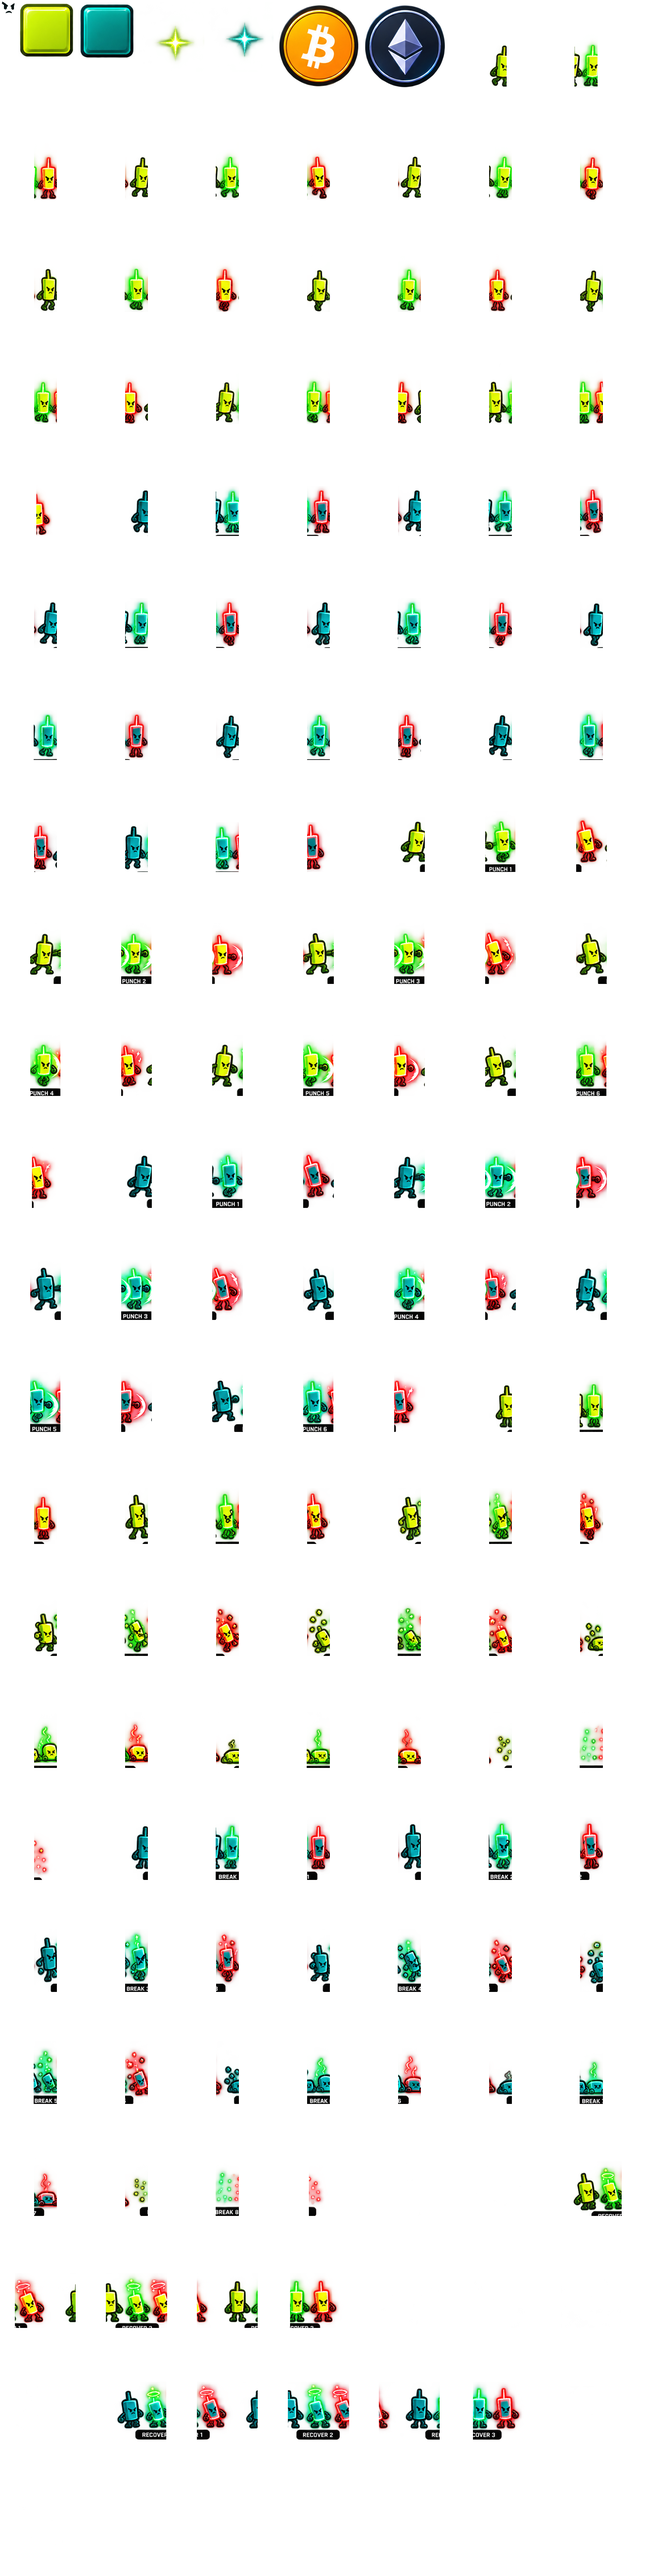
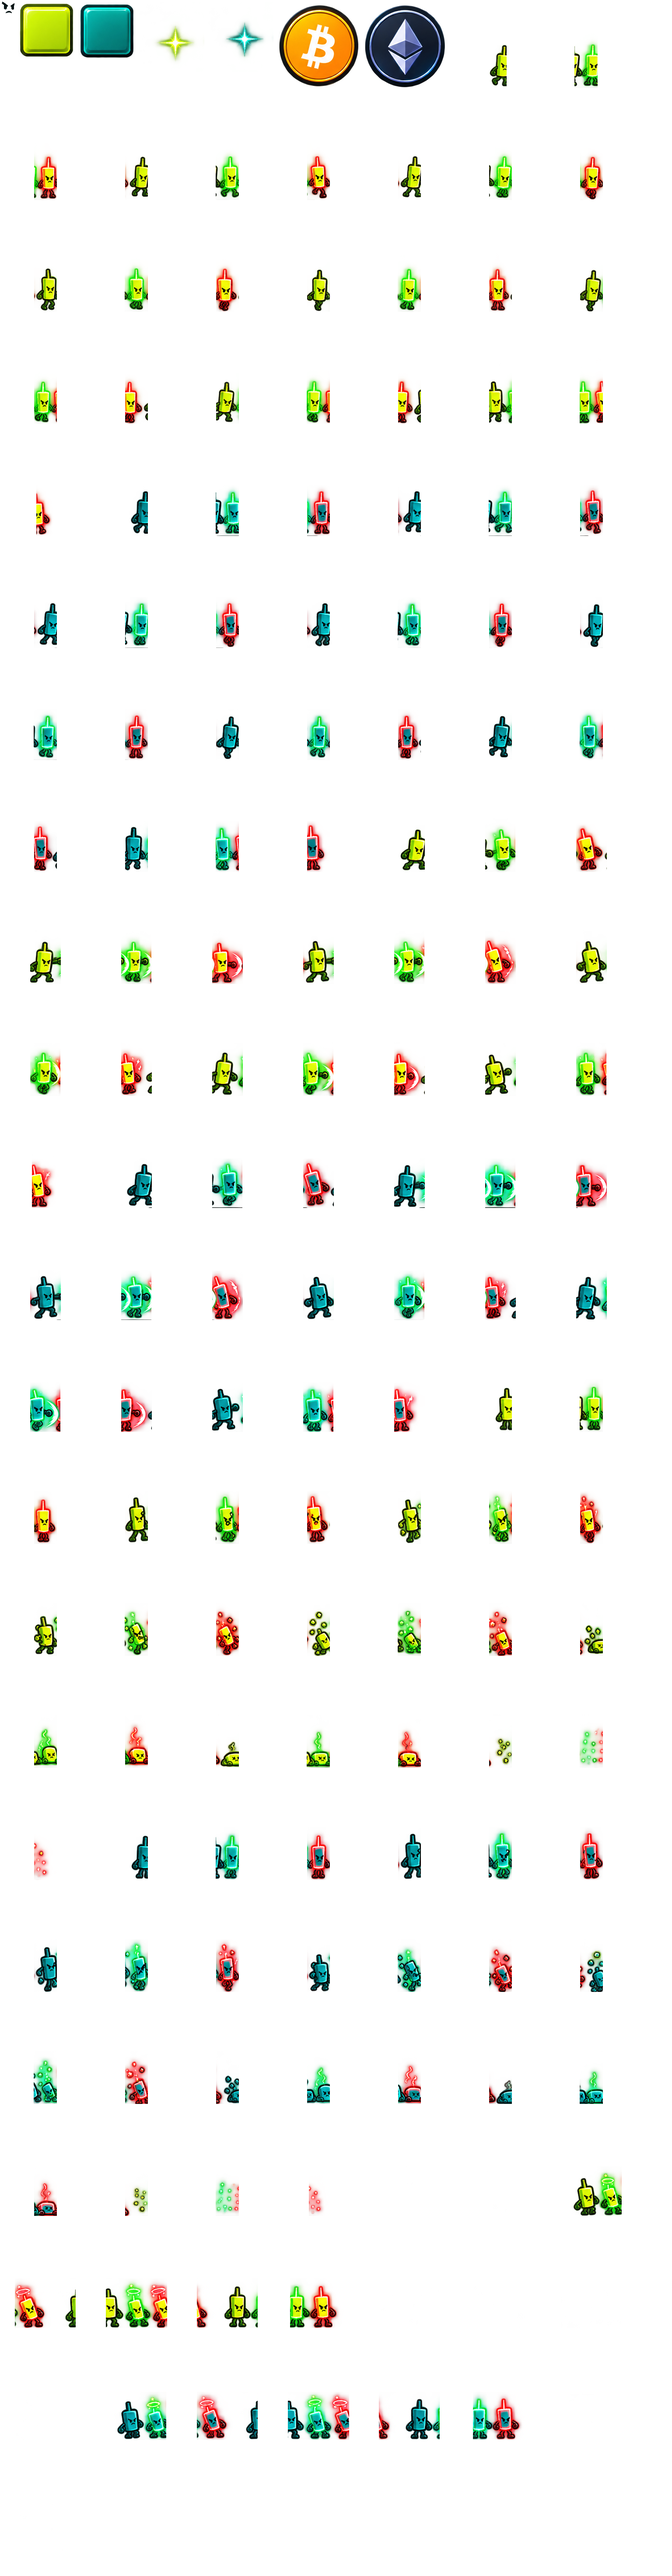
Adiciona arcade de batalhas com candles reais
Implementa o fluxo completo de Candle Battles Arcade:
- adiciona Worker, persistência atômica de rounds e endpoint paginado;
- valida OHLCV da Binance e define vencedor por variação de preço;
- preserva a fórmula de força apenas como desempate;
- adiciona replay e reconexão baseados em rounds imutáveis;
- substitui acessórios desenhados por sprites reais de combate;
- trata empates, recuperação e variantes de animação;
- atualiza preparação de assets, documentação e verificações visuais.

diff --git a/CriptoVersus/wwwroot/js/candle-battles/renderer.ts b/CriptoVersus/wwwroot/js/candle-battles/renderer.ts
@@ -50,6 +50,7 @@ export class CandleRenderer {
     private frozen = false;
     private phase: Phase = 'FORMING_CANDLE';
     private win = true;
+    private draw = false;
     private outline = OUTLINE.neutral;
     private animation: FighterAnimation = 'idle';
     private combat: CombatMotion = { attack: 0, block: 0, dodge: 0, hit: 0, counter: 0, taunt: 0 };
@@ -79,11 +80,13 @@ export class CandleRenderer {
         this.playAnimation(true);
     }
 
-    setPose(phase: Phase, winner: boolean): void {
+    setPose(phase: Phase, winner: boolean, draw = false): void {
         const changed = this.phase !== phase;
         this.phase = phase;
         this.win = winner;
-        const next = fighterAnimationForPhase(phase);
+        this.draw = draw;
+        let next = fighterAnimationForPhase(phase);
+        if (!draw && winner && ['BLOCK_FALLING', 'BLOCK_LOCKING', 'ROUND_COMPLETE'].includes(phase)) next = 'recover';
         if (changed || next !== this.animation) {
             this.animation = next;
             this.playAnimation(true);
@@ -141,7 +144,7 @@ export class CandleRenderer {
         const breakFrame = Math.min(7, Math.floor(progress * 8));
         const recovery = this.phase === 'SPAWNING' ? (Math.min(2, Math.floor(progress * 3)) + 1) / 3 : 1;
         const alpha = (this.phase === 'DESTROYING' && !this.win) ? 1 - breakFrame / 7 :
-            (!this.win && ['VICTORY', 'BLOCK_FALLING', 'BLOCK_LOCKING', 'ROUND_COMPLETE'].includes(this.phase)) ? 0 : recovery;
+            (!this.draw && !this.win && ['VICTORY', 'BLOCK_FALLING', 'BLOCK_LOCKING', 'ROUND_COMPLETE'].includes(this.phase)) ? 0 : recovery;
         this.body.setAlpha(alpha);
         this.sprite.setAlpha(alpha);
         this.aura.setAlpha(alpha);

diff --git a/CriptoVersus/wwwroot/js/dist/candle-battles/renderer.js b/CriptoVersus/wwwroot/js/dist/candle-battles/renderer.js
@@ -37,6 +37,7 @@ export class CandleRenderer {
         this.frozen = false;
         this.phase = 'FORMING_CANDLE';
         this.win = true;
+        this.draw = false;
         this.outline = OUTLINE.neutral;
         this.animation = 'idle';
         this.combat = { attack: 0, block: 0, dodge: 0, hit: 0, counter: 0, taunt: 0 };
@@ -64,11 +65,14 @@ export class CandleRenderer {
             this.visibleGeometry = { ...this.target };
         this.playAnimation(true);
     }
-    setPose(phase, winner) {
+    setPose(phase, winner, draw = false) {
         const changed = this.phase !== phase;
         this.phase = phase;
         this.win = winner;
-        const next = fighterAnimationForPhase(phase);
+        this.draw = draw;
+        let next = fighterAnimationForPhase(phase);
+        if (!draw && winner && ['BLOCK_FALLING', 'BLOCK_LOCKING', 'ROUND_COMPLETE'].includes(phase))
+            next = 'recover';
         if (changed || next !== this.animation) {
             this.animation = next;
             this.playAnimation(true);
@@ -127,7 +131,7 @@ export class CandleRenderer {
         const breakFrame = Math.min(7, Math.floor(progress * 8));
         const recovery = this.phase === 'SPAWNING' ? (Math.min(2, Math.floor(progress * 3)) + 1) / 3 : 1;
         const alpha = (this.phase === 'DESTROYING' && !this.win) ? 1 - breakFrame / 7 :
-            (!this.win && ['VICTORY', 'BLOCK_FALLING', 'BLOCK_LOCKING', 'ROUND_COMPLETE'].includes(this.phase)) ? 0 : recovery;
+            (!this.draw && !this.win && ['VICTORY', 'BLOCK_FALLING', 'BLOCK_LOCKING', 'ROUND_COMPLETE'].includes(this.phase)) ? 0 : recovery;
         this.body.setAlpha(alpha);
         this.sprite.setAlpha(alpha);
         this.aura.setAlpha(alpha);

diff --git a/CriptoVersus/wwwroot/js/candle-battles/game.ts b/CriptoVersus/wwwroot/js/candle-battles/game.ts
@@ -284,7 +284,7 @@ export class GameEngine {
     }
     private enter(phase:Phase): void {
         const r=this.active; if(!r) return;
-        this.left?.setPose(phase,r.winner==='left'); this.right?.setPose(phase,r.winner==='right');
+        this.left?.setPose(phase,r.winner==='left',r.winner==='draw'); this.right?.setPose(phase,r.winner==='right',r.winner==='draw');
         if(phase==='SPAWNING') this.audio.play('candle_spawn');
         if(phase==='APPROACHING') this.audio.play('dash');
         if(phase==='COLLISION') { this.audio.play('punch_impact'); this.burst(640,330,r.winner==='right'?'right':'left'); if(!this.reduced)this.scene?.cameras.main.shake(100,.002); }

diff --git a/CriptoVersus/wwwroot/js/dist/candle-battles/game.js b/CriptoVersus/wwwroot/js/dist/candle-battles/game.js
@@ -419,8 +419,8 @@ export class GameEngine {
         const r = this.active;
         if (!r)
             return;
-        this.left?.setPose(phase, r.winner === 'left');
-        this.right?.setPose(phase, r.winner === 'right');
+        this.left?.setPose(phase, r.winner === 'left', r.winner === 'draw');
+        this.right?.setPose(phase, r.winner === 'right', r.winner === 'draw');
         if (phase === 'SPAWNING')
             this.audio.play('candle_spawn');
         if (phase === 'APPROACHING')

diff --git a/CriptoVersus/tools/candle-battles/prepare-assets.py b/CriptoVersus/tools/candle-battles/prepare-assets.py
@@ -59,10 +59,10 @@ extended_bytes = z.read(prefix + "assets/sprites/characters/source/candle_fighte
 extended = Image.open(io.BytesIO(extended_bytes)).convert("RGBA")
 action_rows = {
     # The lower edge of every tuple stops before the baked action label.
-    "run": ((0, 160, 8), (650, 760, 8)),
-    "punch": ((195, 331, 6), (800, 934, 6)),
-    "break": ((350, 475, 8), (950, 1091, 8)),
-    "recover": ((500, 622, 3), (1105, 1233, 3)),
+    "run": ((0, 164, 8), (646, 762, 8)),
+    "punch": ((195, 317, 6), (805, 918, 6)),
+    "break": ((350, 472, 8), (951, 1071, 8)),
+    "recover": ((500, 613, 3), (1104, 1214, 3)),
 }
 directions = ("neutral", "up", "down")
 

diff --git a/docs/candle-battles.md b/docs/candle-battles.md
@@ -52,7 +52,7 @@ Fonte TypeScript: CriptoVersus/wwwroot/js/candle-battles. Phaser 3.90.0 é empac
 
 CandleRenderer projeta Open/Close e High/Low em um domínio percentual compartilhado entre os ativos. O corpo é um retângulo desenhado por Graphics e o doji tem altura financeira zero. Nenhuma imagem inteira é escalada verticalmente. Open, Close, High e Low visuais são interpolados por 240 ms e chegam exatamente às coordenadas alvo. Os DTOs recebidos não são alterados. Durante todo o round, um diretor determinístico de combate deriva a direção de `close - open`: candles verdes recebem pressão ofensiva, candles vermelhos priorizam defesa/recuo e reações, e dojis permanecem equilibrados; a força existente só desempata candles comparáveis. O tamanho OHLC permanece exclusivamente financeiro e não concede vantagem ofensiva.
 
-O rosto foi extraído da prancha aprovada. Braços, punhos e pernas foram redesenhados e articulados programaticamente a partir das poses de referência. Suas dimensões são fixas. Para corpos pequenos e dojis, o rosto aparece em um pequeno distintivo acima do corpo: esse distintivo é decorativo, não parte da geometria financeira. Bounce e Jitter deslocam apenas acessórios; Pulse muda a aura. Os contornos de alta, baixa e neutro são independentes da cor da equipe.
+O rosto, braços, punhos e pernas das ações disponíveis são sprites reais recortados da prancha aprovada; não são redesenhados pelo renderer. O atlas registra variantes neutra, compra e venda para as duas equipes. As sequências usadas são RUN (8), PUNCH (6), BREAK (8) e RECOVER (3), com o pé normalizado em uma tela transparente comum, sem deformar a proporção original. Idle, lunge, victory e defeat usam a alternativa mais próxima disponível da mesma arte. O corpo e os pavios continuam sendo a geometria OHLC exata, separados da camada ilustrada. Os contornos de alta, baixa e neutro são independentes da cor da equipe.
 
 As poses incluem Idle/Bounce, corrida com oito posições, ataque com seis posições, destruição em oito etapas com fragmentos, vitória e recuperação em três etapas. As pranchas completas e a imagem conceitual não são usadas como frames financeiros nem como uma arena pronta.
 
@@ -66,7 +66,7 @@ Preparação reproduzível:
 
     python CriptoVersus/tools/candle-battles/prepare-assets.py <arquivo-zip-fornecido>
 
-O script preserva a prancha base em tools/candle-battles/source (fora do wwwroot), extrai a tinta do rosto, recorta blocos, impactos e ícones e gera modular.png/modular.json/manifest.json. O manifesto registra o hash da fonte e os recursos utilizados. As duas músicas e os 16 efeitos fornecidos estão em wwwroot/games/candle-battles/assets/audio.
+O script preserva as pranchas base e extended em tools/candle-battles/source (fora do wwwroot), recorta os estados reais de ação, remove os rótulos incorporados, preserva alpha e gera modular.png/modular.json/manifest.json. O manifesto registra os hashes das fontes, as poses, as direções e os recursos utilizados. As músicas e os efeitos fornecidos estão em wwwroot/games/candle-battles/assets/audio.
 
 O áudio só é desbloqueado por interação local do usuário. Os botões são tratados no navegador para preservar o gesto exigido por áudio e fullscreen. Há controles de volume geral, música, efeitos e mute, com preferência local, fade da trilha, máximo de seis efeitos simultâneos e intervalo mínimo de 900 ms para data tick. ResizeObserver, listeners, áudio, texturas e o jogo são liberados no descarte.
 
@@ -80,7 +80,7 @@ O áudio só é desbloqueado por interação local do usuário. Os botões são 
     dotnet test CriptoVersus.Worker.Tests/CriptoVersus.Worker.Tests.csproj --filter "FullyQualifiedName~CandleBattle|FullyQualifiedName~Volume"
     dotnet build EthicAI.sln
 
-Os testes visuais usam Edge headless e servidor estático local, sem API ou banco de produção. As capturas de referência estão em wwwroot/js/candle-battles/tests/visual.spec.mjs-snapshots; o diretório tests é excluído da publicação Web. A galeria cobre corpos pequeno/médio/grande, doji, pavios extremos, contornos das duas equipes, inversão durante interpolação, tamanho fixo dos acessórios, reconexão, replay, blocos quadrados, resize, dispose, áudio real e fullscreen por gesto nativo.
+Os testes visuais usam Edge headless e servidor estático local, sem API ou banco de produção. As capturas de referência estão em wwwroot/js/candle-battles/tests/visual.spec.mjs-snapshots; o diretório tests é excluído da publicação Web. A galeria cobre corpos pequeno/médio/grande, doji, pavios extremos, contornos das duas equipes, sprites de combate, inversão durante interpolação, reconexão, replay, blocos quadrados, resize, dispose, áudio real e fullscreen por gesto nativo.
 
 Neste workspace, arquivos de saída estavam bloqueados pela aplicação aberta e o projeto legado incluía obj antigo no glob. A validação da solução usa saída isolada e exclui esses objetos sem removê-los:
 

diff --git a/ARCHITECTURE.md b/ARCHITECTURE.md
@@ -546,7 +546,7 @@ The Worker appends the candle-battles-arcade stage after its existing stages. Ca
 
 Migration 20261015000000_AddCandleBattlesArcade adds candle_battles_round and candle_battles_state. Worker is the sole writer. A (MatchId, OpenTimeUtc) primary key plus per-match transaction advisory lock makes round insertion and durable cursor advancement atomic. API and Worker retain their existing migration-startup ownership. GET /api/matches/{matchId}/candle-battles exposes paginated immutable rounds, forming OHLCV, provisional strength, arcade score and failure/staleness status; for rounds written with a pre-return rule version, the API normalizes the projected winner from stored OHLC without mutating the immutable row. Replay and reconnection reconstruct points and territory only from these rounds.
 
-The TypeScript renderer draws financial body/wicks and keeps fixed-size face/limb accessories separate from decorative motion. A snapshot for an active battle is immutable while the independent heartbeat receives the next candle. Audio, resize and browser listeners are instance-owned and disposed. The build emits versioned local Phaser and native ESM modules; generated JS is not hand-edited. User-supplied source art stays outside wwwroot, and visual-test fixtures are excluded from publication. See docs/candle-battles.md for formula parameters, schema ownership, asset preparation and verification limits.
+The TypeScript renderer draws financial body/wicks and keeps the OHLC geometry separate from real, alpha-trimmed fighter action sprites. The atlas registers team and OHLC-direction variants for RUN, PUNCH, BREAK and RECOVER; uniform sprite scaling preserves artwork proportions while candle body size remains financial. A snapshot for an active battle is immutable while the independent heartbeat receives the next candle. Audio, resize and browser listeners are instance-owned and disposed. The build emits versioned local Phaser and native ESM modules; generated JS is not hand-edited. User-supplied source art stays outside wwwroot, and visual-test fixtures are excluded from publication. See docs/candle-battles.md for formula parameters, schema ownership, asset preparation and verification limits.
 
 ## MCP Flow
 
